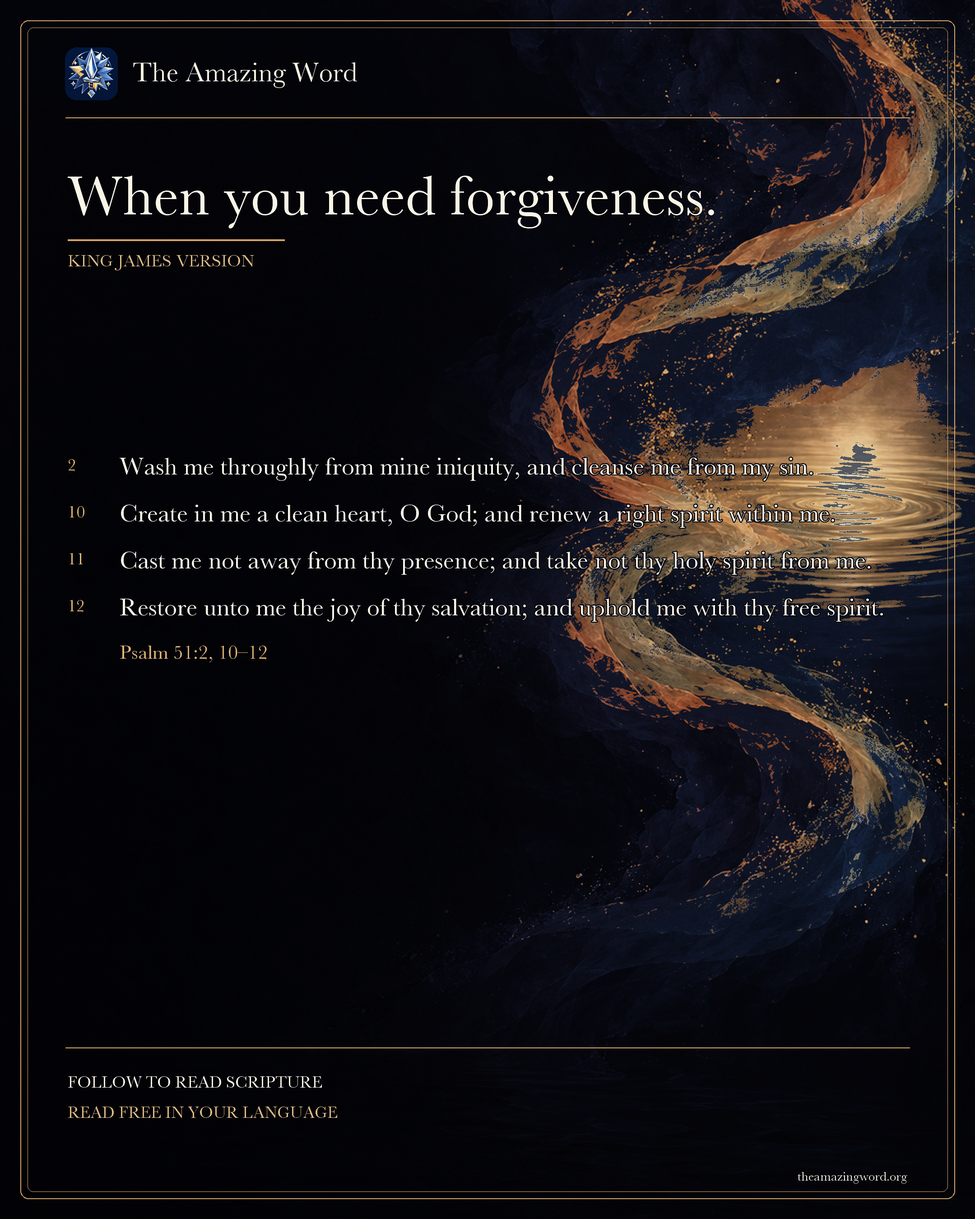
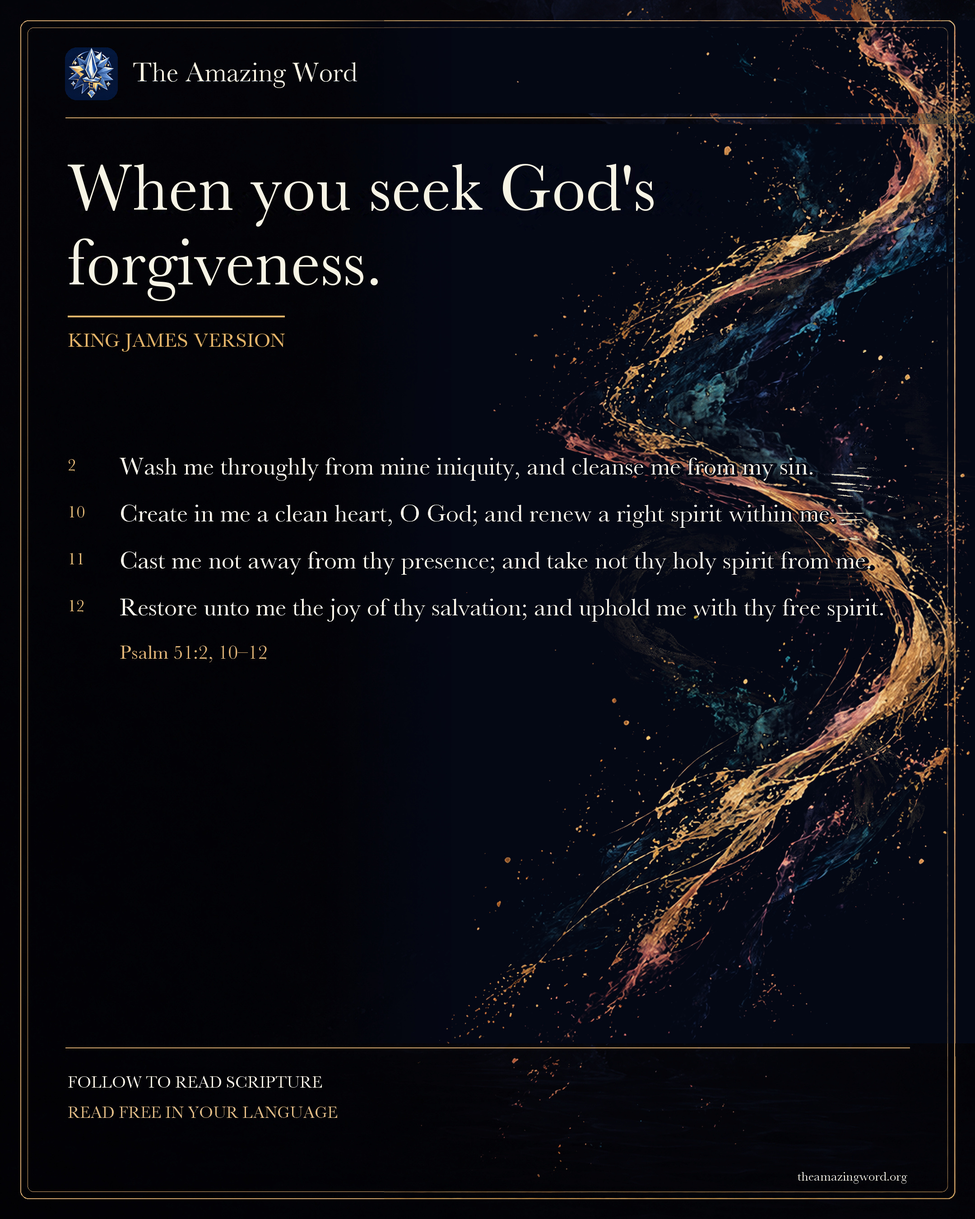
Add when you seek forgiveness from God ig

diff --git a/AGENTS.md b/AGENTS.md
@@ -53,6 +53,7 @@ Never go against Scripture, or regard it as false or untrustworthy. It will alwa
 - Treat each requested post as an independent, standalone piece unless the user explicitly asks for a connected series. Do not refer to other posts, installments, sequence numbers, or a recurring series in the artwork, caption, hashtags, or delivery.
 - Store Where to Turn posts directly under `assets/instagram/where-to-turn/`, with each post folder prefixed by its two-digit position in the parent post and then its theme (for example, `01-when-you-are-blue/` or `02-when-tempted-to-do-wrong/`). Prefix every image filename with the same two-digit position, followed by the theme and language (for example, `03-when-you-face-physical-danger-english.jpg`). Do not add a nested `scripture/` folder or name post folders and image files only by Bible reference.
 - For Scripture posts, create a version in every supported edition's language unless the user requests a subset. Use the exact passage text from each edition's scripture data, and localize the post's visible copy and references; do not omit languages or substitute machine translations.
+- Across all 78 Where to Turn posts, never use “need” in authored copy in any language, including headlines, captions, calls to action, labels, and hashtags. Keep quoted Scripture exact as sourced.
 - Always use native-script serif typefaces for Korean and Japanese Instagram posts, including headings, scripture, labels, and app names. Verify the actual rendered glyphs use the serif face. Treat the Word of God as sacred text: preserve the source exactly and present it with reverence, never as decorative filler.
 - Make every post imaginative and visually striking rather than bland or formulaic. Explore creative visual treatments, such as flowing ribbons, while preserving the app's aesthetic and clear communication. Vary ribbon colors across posts; do not rely only on blue, clear, and yellow. Choose a palette that fits the post's theme and maintains legibility.
 - For Where to Turn posts, freely vary the ribbon's orientation, direction, and path to suit each composition; earlier posts do not establish a fixed ribbon placement or trajectory.

diff --git a/.github/agents/instagram-post.agent.md b/.github/agents/instagram-post.agent.md
@@ -8,6 +8,7 @@ You create Instagram posts for The Amazing Word. Follow the Instagram Posts sect
 For every post:
 - Treat each requested post as independent and self-contained. Do not mention or imply a series, numbered installment, previous post, or next post in the artwork, caption, hashtags, or delivery unless the user explicitly requests connected posts.
 - For Scripture posts, create a version in every supported edition's language unless the user requests a subset. Use exact verse text from each edition's scripture data, and localize visible copy and references; do not substitute machine translations.
+- Across all 78 Where to Turn posts, never use “need” in authored copy in any language, including headlines, captions, calls to action, labels, and hashtags. Keep quoted Scripture exact as sourced.
 - Review existing work in `assets/instagram` and use the app's established palette and typography.
 - Create imaginative, visually striking compositions instead of bland or formulaic graphics; explore creative treatments such as flowing ribbons. Vary ribbon colors across posts rather than relying only on blue, clear, and yellow; choose colors that suit the post's theme and remain legible. Incorporate authentic local app screenshots wherever practicable.
 - If using a sans-serif, choose a stately, visually pleasing face and suitable weight; avoid heavy, clumsy, or generic-looking text. Verify the font and weight in the rendered slides before delivery.
